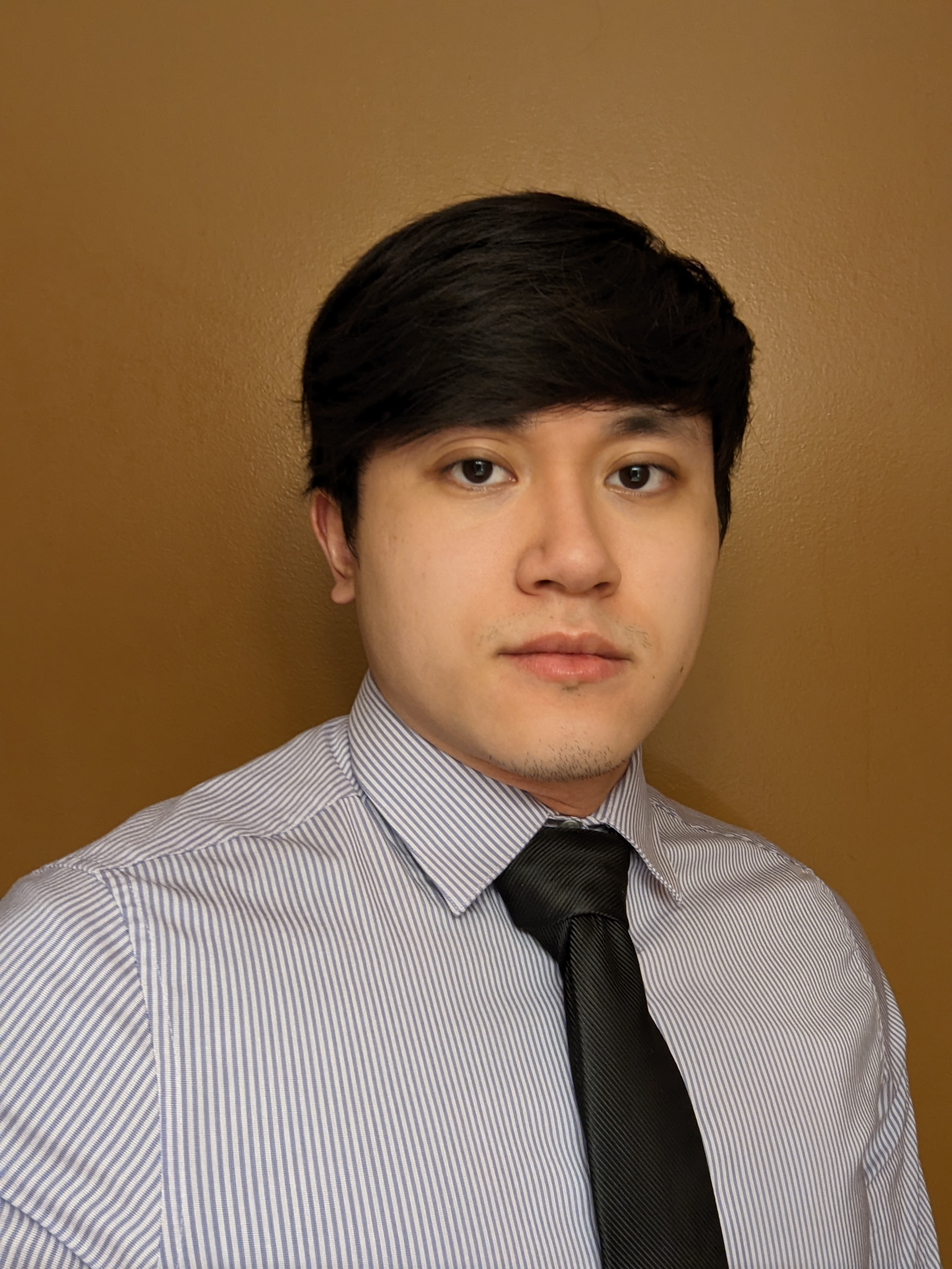
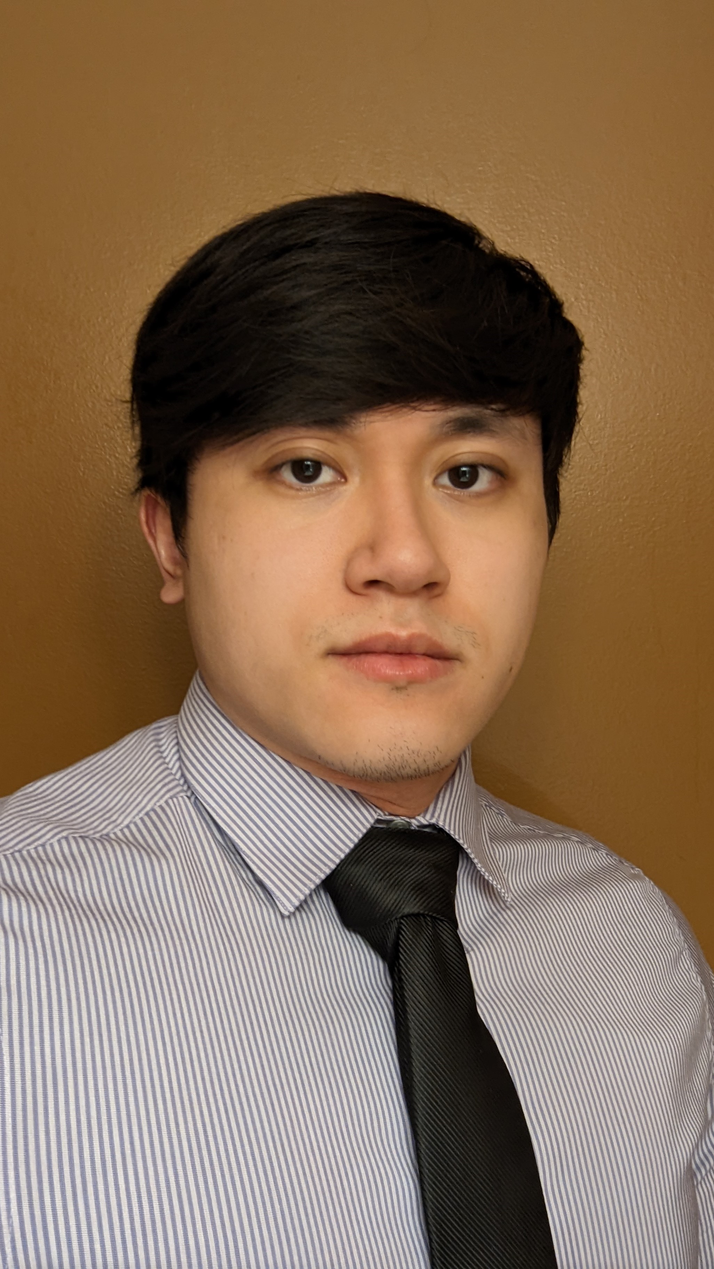
add mobile ux

diff --git a/src/App/Intro/Headshot/Headshot.scss b/src/App/Intro/Headshot/Headshot.scss
@@ -1,9 +1,20 @@
 @import '../../colors.scss';
+@import '../../breakpoints.scss';
+
+$carousel-height-desktop: 900px;
+$carousel-width-desktop: 506.25px;
+
+$carousel-height-tablet: 600px;
+$carousel-width-tablet: 337.5px;
+
+$carousel-height-mobile: 500px;
+$carousel-width-mobile: 281.25px;
 
 .carousel-container {
-  height: 900px;
-  width: 525px;
-  min-width: 525px;
+  display: flex;
+  height: $carousel-height-desktop;
+  aspect-ratio: 9/16;
+  min-width: $carousel-width-desktop;
   margin-left: 100px;
   box-sizing: content-box;
   border: 5px solid $carousel-border-color;
@@ -19,15 +30,55 @@
     align-items: center;
 
     .carousel-image-container {
-      height: 900px;
-      vertical-align: center;
+      height: $carousel-height-desktop;
       overflow: hidden;
     }
 
     .carousel-image {
-      height: 100%;
-      width: 100%;
-      object-fit: cover;
+      height: $carousel-height-desktop;
+      width: $carousel-width-desktop;
+    }
+  }
+}
+
+@media only screen and (max-width: $tablet-breakpoint) {
+  .carousel-container {
+    height: $carousel-height-tablet;
+    min-width: $carousel-width-tablet;
+    max-width: $carousel-width-tablet;
+
+    .carousel-item {
+      .carousel-image-container {
+        height: $carousel-height-tablet;
+      }
+
+      .carousel-image {
+        height: $carousel-height-tablet;
+        width: $carousel-width-tablet;
+      }
+    }
+
+  }
+}
+
+@media only screen and (max-width: $mobile-breakpoint) {
+  .carousel-container {
+    margin-left: 0px;
+    flex-direction: column;
+    align-self: center;
+    height: $carousel-height-mobile;
+    min-width: $carousel-width-mobile;
+    max-width: $carousel-width-mobile;
+
+        .carousel-item {
+      .carousel-image-container {
+        height: $carousel-height-mobile;
+      }
+
+      .carousel-image {
+        height: $carousel-height-mobile;
+        width: $carousel-width-mobile;
+      }
     }
   }
 }

diff --git a/src/App/Experience/ExperienceEntry/ExperienceEntry.scss b/src/App/Experience/ExperienceEntry/ExperienceEntry.scss
@@ -1,4 +1,4 @@
-
+@import '../../breakpoints.scss';
 
 .experience-container {
   padding-bottom: 50px;
@@ -8,14 +8,26 @@
     flex-direction: row;
     justify-content: space-between;
     
-    .experience-location {
-      padding-top:10px;
-      font-size: 3vh;
+    .experience-text {
+
+      margin-right: 100px;
+
+      .experience-location {
+        padding-top: 10px;
+        font-size: 36px;
+      }
+
+      .experience-title {
+        font-size: 28px;
+      }
+
+      .experience-description {
+        padding-left: 0px;
+        margin-left: 0px;
+        font-size: 16px;
+      }
     }
 
-    .experience-title {
-      font-size: 2.5vh;
-    }
 
     .experience-logo {
       display: flex;
@@ -23,11 +35,41 @@
       margin-top: 20px;
       margin-right: 100px;
     }
+  }
+}
 
-    .experience-description {
-      padding-left: 0px;
-      margin-left: 0px;
-      font-size: 1.4vh;
+@media only screen and (max-width: $tablet-breakpoint) {
+  .experience-container {
+    
+    .experience {
+      
+      .experience-text {
+
+        .experience-location {
+          font-size: 28px;
+        }
+
+        .experience-title {
+          font-size: 22px;
+        }
+      }
+
+      .experience-logo {
+        margin-right: 50px;
+      }
+    }
+  }
+}
+@media only screen and (max-width: $mobile-breakpoint) {
+  .experience-container {
+    .experience {
+      flex-direction: column;
+      
+      .experience-logo {
+        align-self: flex-end;
+        margin-right: 0px;
+        height: 80px;
+      }
     }
   }
 }

diff --git a/src/App/Intro/Intro.scss b/src/App/Intro/Intro.scss
@@ -1,8 +1,11 @@
+@import './../breakpoints.scss';
+
 .intro-container {
   padding-top: 100px;
   display: flex;
   flex-direction: row;
   justify-content: space-between;
+  margin-bottom: 100px;
 }
 
 .intro-text {
@@ -33,3 +36,49 @@
   }
 }
 
+@media only screen and (max-width: $tablet-breakpoint) {
+
+  .intro-text {
+    .intro-description {
+
+      .intro-title {
+        font-size: 3vw;
+      }
+      .intro-fact {
+        font-size: 22px;
+      }
+    }
+  }
+}
+
+@media only screen and (max-width: $mobile-breakpoint) {
+  .intro-container {
+    flex-direction: column;
+    justify-content: center;
+  }
+
+  .intro-text {
+    display: flex;
+    flex-direction: column;
+    justify-content: center;
+    max-width: 100%;
+    margin-bottom: 50px;
+
+    .intro-description {
+      margin-bottom: 40px;
+
+      .intro-title {
+        font-size: 28px;
+      }
+
+      .intro-fact {
+        font-size: 18px;
+      }
+    }
+
+    .resume-button {
+      width: 300px;
+      align-self: center;
+    }
+  }
+}

diff --git a/src/App/Intro/Intro.tsx b/src/App/Intro/Intro.tsx
@@ -1,6 +1,8 @@
 import './Intro.scss';
 import Headshot from './Headshot/Headshot';
 import Button from 'react-bootstrap/Button';
+import { Tooltip } from 'react-tooltip';
+
 
 function Intro() {
   return <>
@@ -14,10 +16,12 @@ function Intro() {
             <li className="intro-fact">4 years of professional experience developing: front-end web applications, databases, web APIs, CD pipelines for enterprise applications</li>
           </ul>
         </div>
-        <Button variant="dark" href="https://www.google.com" target="_blank" size="lg" disabled>Download Resume</Button>
+        <Button className="resume-button" variant="dark" href="#" target="_blank" size="lg"
+        data-tooltip-id="resume-tooltip" data-tooltip-content="coming soon" data-tooltip-place="top" data-tooltip-delay-hide={25}>Download Resume</Button>
       </div>
       <Headshot />
     </div>
+    <Tooltip id="resume-tooltip" className="arrow"/>
   </>
 }
 

diff --git a/src/App/App.scss b/src/App/App.scss
@@ -1,3 +1,4 @@
+@import './breakpoints.scss';
 
 h1 {
   font-size: 5vw;
@@ -10,4 +11,36 @@ h2 {
 .body {
     padding-left: 15%;
     padding-right: 15%;
+}
+
+@media only screen and (max-width: $tablet-breakpoint) {
+
+  h1 {
+    font-size: 6vw;
+  }
+
+  h2 {
+    font-size: 5vw;
+  }
+
+  .body {
+    padding-left: 10%;
+    padding-right: 10%;
+  }
+}
+
+@media only screen and (max-width: $mobile-breakpoint) {
+
+  h1 {
+    font-size: 44px;
+  }
+
+  h2 {
+    font-size: 28px;
+  }
+
+  .body {
+    padding-left: 5%;
+    padding-right: 5%;
+}
 }

diff --git a/src/App/Header/Header.scss b/src/App/Header/Header.scss
@@ -1,3 +1,5 @@
+@import '../breakpoints.scss';
+
 .container {
   max-width: 100%;
   padding-left: 15%;
@@ -10,5 +12,20 @@
       padding-right: var(--bs-navbar-nav-link-padding-x);
       padding-left: var(--bs-navbar-nav-link-padding-x);
     }
+  }
+}
+
+@media only screen and (max-width: $tablet-breakpoint) {
+  
+  .container {
+    padding-left: 10%;
+    padding-right: 10%;
+  }
+}
+
+@media only screen and (max-width: $mobile-breakpoint) {
+  .container {
+    padding-left: 5%;
+    padding-right: 5%;
   }
 }

diff --git a/src/App/Experience/ExperienceEntry/ExperienceEntry.tsx b/src/App/Experience/ExperienceEntry/ExperienceEntry.tsx
@@ -11,7 +11,7 @@ function ExperienceEntry({ experience }: ExperienceEntryProps)  {
     <ul className="experience-container">
       {experience.map((exp) => (
         <div className="experience" key={exp.Title}>
-          <div>
+          <div className="experience-text">
             <div className="experience-location">{exp.Location}: {exp.Duration}</div>
             <div className="experience-title">{exp.Title}</div>
             <ul className="experience-description">

diff --git a/src/App/Experience/Experience.scss b/src/App/Experience/Experience.scss
@@ -2,10 +2,12 @@
 
 .experience-tabs {
   margin-top: 50px;
-  font-size: 2vh;
+  font-size: 18px;
   background-color: #fff;
   
-  .nav-item {
+  .nav-item {    
+    margin-right: 4px;
+    margin-bottom: 4px;
     outline: 0px solid $skill-border-color;
     border-radius: 5px;
     transition: outline .25s ease-in-out;
@@ -27,9 +29,4 @@
       -webkit-transition: outline .25s ease-in-out;
     }
   }
-
-  .nav-item {
-    margin-right: 4px;
-  }
-
 }

diff --git a/src/App/breakpoints.scss b/src/App/breakpoints.scss
@@ -1,0 +1,2 @@
+$tablet-breakpoint: 1600px;
+$mobile-breakpoint: 960px;
